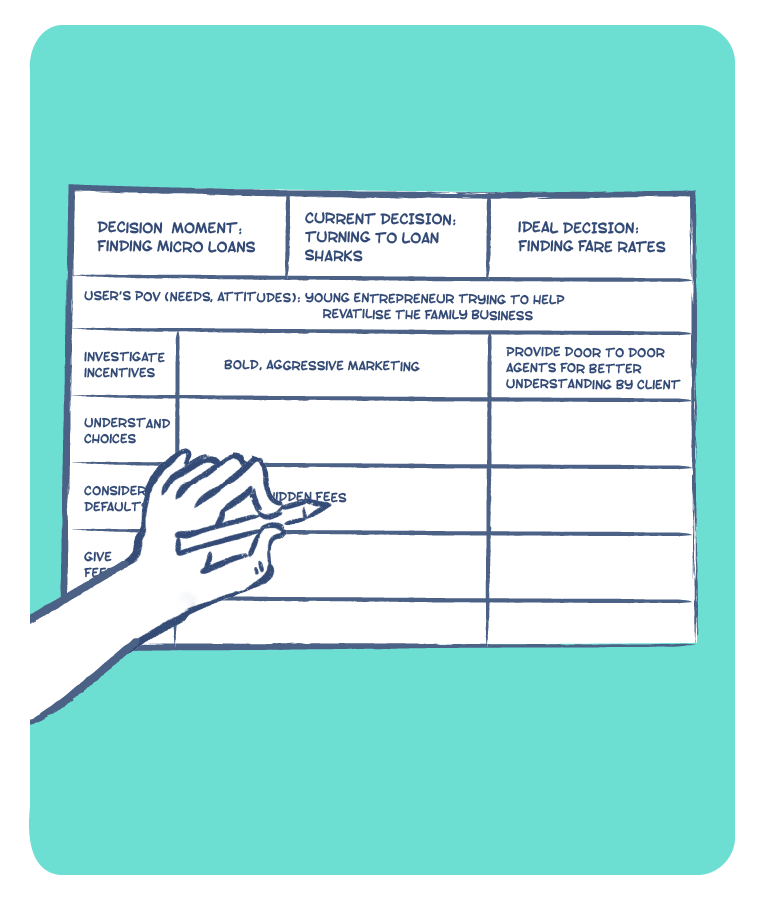
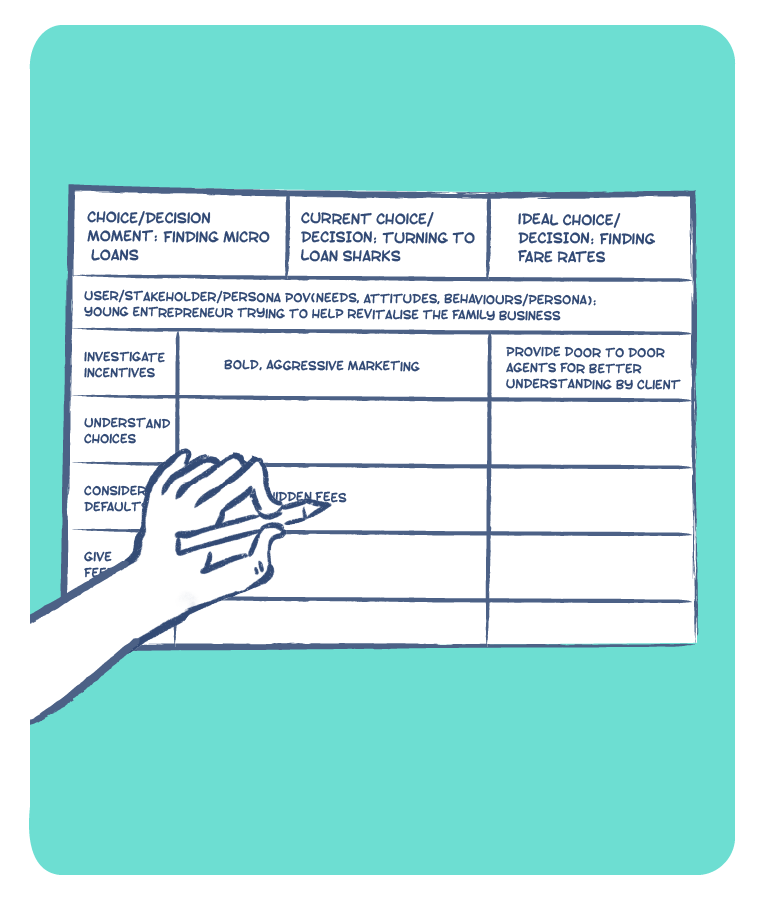
small changes

Changed region(s): [[0.1211, 0.2178, 0.8776, 0.3733]]

diff --git a/tool-pages/Value Proposition Canvas.html b/tool-pages/Value Proposition Canvas.html
@@ -77,9 +77,9 @@
 					<h2>UNDERSTANDING THE TOOL</h2>
 					
 					<ul>
-<li>Customer Profile Map: This part focuses on the customers</span>’ key characteristics and needs. A customer profile should be created for each customer segment/persona, as they may have distinct gains, pains and jobs and value propositions can be different for each. There are three sections within the customer profile map; 1) Customer jobs are the functional, social and emotional tasks (for example, for a small retailer these could be — accessing funds for investment, growing the business by increasing revenue and volume, expanding product portfolio etc.) that customers are trying to (or could) accomplish through the use of a product or service. 2) Gains are the benefits (for example, easy access to funds, low rates, low collateral etc.) that customers expect while going about the jobs. 3) Pains are the negative experiences, emotions and risks (for example, tedious documentation, multiple follow ups, bribes, etc.) that customers want to avoid while getting the jobs done.</li>
-<li>Value Map: This part focuses on how one can design products and services to meet customer needs. Each part of this map relates back to the Customer Profile Map. There are three sections within the Value Map - 1) Products & Services - the solutions, in terms of features and systems (for example, business loans for retailers) that help customers complete the customer jobs. 2) Pain Relievers - things that can be included in the product or service to aid customers and reduce their pains (for example, pre approved amounts, minimal documentation, on site verification). 3) Gain Creators - things in the product or service that can help maximise customer outcomes and benefits (for example, business advice for retailers, custom payment terms, repayment bonuses).</li>
-<li>Value Proposition: To be used to summarise the emerging value proposition (for example, easy to access and rewarding financial services for small retailers).</li>
+<li>‘<span>Customer Profile Map</span>’: This part focuses on the customers</span>’ key characteristics and needs. A customer profile should be created for each customer segment/persona, as they may have distinct gains, pains and jobs and value propositions can be different for each. There are three sections within the customer profile map; 1) Customer jobs are the functional, social and emotional tasks (for example, for a small retailer these could be — accessing funds for investment, growing the business by increasing revenue and volume, expanding product portfolio etc.) that customers are trying to (or could) accomplish through the use of a product or service. 2) Gains are the benefits (for example, easy access to funds, low rates, low collateral etc.) that customers expect while going about the jobs. 3) Pains are the negative experiences, emotions and risks (for example, tedious documentation, multiple follow ups, bribes, etc.) that customers want to avoid while getting the jobs done.</li>
+<li>‘<span>Value Map</span>’: This part focuses on how one can design products and services to meet customer needs. Each part of this map relates back to the Customer Profile Map. There are three sections within the Value Map - 1) Products & Services - the solutions, in terms of features and systems (for example, business loans for retailers) that help customers complete the customer jobs. 2) Pain Relievers - things that can be included in the product or service to aid customers and reduce their pains (for example, pre approved amounts, minimal documentation, on site verification). 3) Gain Creators - things in the product or service that can help maximise customer outcomes and benefits (for example, business advice for retailers, custom payment terms, repayment bonuses).</li>
+<li>‘<span>Value Proposition</span>’: To be used to summarise the emerging value proposition (for example, easy to access and rewarding financial services for small retailers).</li>
 </ul>
 				</div>
 				

diff --git a/tool-pages/Mobile Interface Design Best Practices.html b/tool-pages/Mobile Interface Design Best Practices.html
@@ -18,7 +18,7 @@
 		<div class="header-container">
 			<h1><a href="../index.html">The FinLab Toolkit</a></h1>
 			
-						<div class="header-links">
+			<div class="header-links">
 				<div class="header-link"><a href="../index.html">
 					<button class="header-button">Back</button>
 				</a></div>
@@ -37,7 +37,6 @@
 					</div>
 					
 					<div class="tool-about">
-						
 						<p>The Mobile Interface Design Best Practices are a set of guidelines that inform teams on how they must approach the design of app based products and prototypes.</p>
 					</div>
 					
@@ -45,9 +44,9 @@
 						<h2>USE CASES</h2>
 						
 						<ul>
-<li>Design screen based prototypes.</li>
-<li>Create mobile based products that are easy to use.</li>
-</ul>
+							<li>Design screen based prototypes.</li>
+							<li>Create mobile based products that are easy to use.</li>
+						</ul>
 					</div>
 					
 					<div class="tool-limitations">
@@ -55,24 +54,22 @@
 						
 						<p>The guidelines are merely a starting list of principles that cover the basics of mobile interface design, they are not exhaustive.</p>
 					</div>
-                     <a class="linkin "href=" https://www.cgap.org/sites/default/files/publications/slidedeck/principlesofsmartphonedesign05oct16-161005230428.pdf " target="_blank" style="margin-left: 0;">Principles for UI/UX Design | CGAP</a>
-                   
-				</div>
+                    <a class="linkin "href=" https://www.cgap.org/sites/default/files/publications/slidedeck/principlesofsmartphonedesign05oct16-161005230428.pdf " target="_blank" style="margin-left: 0;">Principles for UI/UX Design | CGAP</a></div>
 				
 				<div class="pres-down-grid">
-					<div class="tool-card-image">
-					</div>
+					<div class="tool-card-image"></div>
 					
 					<div class="download-buttons">
 						<div class="download-link"><a href="../files/tools/decks/Mobile Interface Design Best Practices_FacilitationDeck.pptx" download=" Mobile Interface Design Best Practices_FacilitationDeck.pptx">
-												<button class="download-button">Download Mobile Interface Design Best Practices!</button>
-											</a></div>
-										</div>
+							<button class="download-button">Download Mobile Interface Design Best Practices!</button>
+						</a></div>
 					</div>
 				</div>
 			</div>
 		</div>
-        <div class="footer-section">
+	</div>
+	
+	<div class="footer-section">
 		<div class="header-container">
 			<p>&copy; Copyright 2019, UNCDF. All rights reserved.</p>
 		</div>

diff --git a/tool-pages/NUDGE.html b/tool-pages/NUDGE.html
@@ -11,7 +11,7 @@
 	
 	<meta name="viewport" content="width=device-width, initial-scale=1.0">
 	
-	<link rel="stylesheet" href="../files/css/toolpurple.css">
+	<link rel="stylesheet" href="../files/css/toolgreen.css">
 </head>
 <body>
 	<div class="header-section">
@@ -80,7 +80,7 @@
 					
 					<ul>
 <li>The ‘<span>Choice/Decision Moment</span>’ section is meant to note down the decision that is being designed for. What is happening currently?, can be noted in the ‘<span>Current Choice/Decision</span>’ box, and the intended action in the ‘<span>Desired Choice/Decision</span>’ box.</li>
-<li>The ‘<span>User/Stakeholder Persona/Profile</span>’ box is for making a note of the key attributes; needs, attitudes, behaviours, etc. that describe the person who is making the choice.</li>
+<li>The ‘<span>User/Stakeholder/Persona</span>’ box is for making a note of the key attributes; needs, attitudes, behaviours, etc. that describe the person who is making the choice.</li>
 <li>‘<span>Investigate Incentives</span>’ is the section where designers can list potential incentives for users that can work as the nudge. Incentives can be monetary, social recognition, personal growth, etc. Designers are to decide how these incentives are offered and communicated.</li>
 <li>‘<span>Understand Choices</span>’ is a nudge approach where designers are able to communicate the costs vs. benefits of the different choices to the user, and therefore influence choice. For this to happen, the costs and benefits of different decisions need to be mapped first, and then prioritised based on what is most important for users.</li>
 <li>‘<span>Consider Defaults</span>’ is a nudge approach where designers set defaults on the product or service that are closest to a desired choice. An evaluation of moments where defaults are required, and how they will be set needs to be done.</li>

diff --git a/tool-pages/Insights & Opportunities.html b/tool-pages/Insights & Opportunities.html
@@ -78,8 +78,8 @@
 					
 					<ul>
 <li>‘<span>Key Takeaways</span>’ are the most important themes, learnings, and findings from the Affinity Mapping exercise.</li>
-<li>'Insights' are new and fundamental things one has understood about a problem or opportunity, and potential solutions. These could be things about users, context, system, service, etc.</li>
-<li>'Opportunities' are potential ways to approach solutions. They can be framed as “How Might We?” statements.</li>
+<li>‘<span>Insights</span>’ are new and fundamental things one has understood about a problem or opportunity, and potential solutions. These could be things about users, context, system, service, etc.</li>
+<li>‘<span>Opportunities</span>’ are potential ways to approach solutions. They can be framed as “How Might We?” statements.</li>
 </ul>
 				</div>
 				

diff --git a/tool-pages/Design & Ethics.html b/tool-pages/Design & Ethics.html
@@ -11,7 +11,7 @@
 	
 	<meta name="viewport" content="width=device-width, initial-scale=1.0">
 	
-	<link rel="stylesheet" href="../files/css/toolpurple.css">
+	<link rel="stylesheet" href="../files/css/toolgreen.css">
 </head>
 <body>
 	<div class="header-section">

diff --git a/tool-pages/Design with Intent.html b/tool-pages/Design with Intent.html
@@ -11,7 +11,7 @@
 	
 	<meta name="viewport" content="width=device-width, initial-scale=1.0">
 	
-	<link rel="stylesheet" href="../files/css/toolpurple.css">
+	<link rel="stylesheet" href="../files/css/toolgreen.css">
 </head>
 <body>
 	<div class="header-section">

diff --git a/tool-pages/Gamification Board.html b/tool-pages/Gamification Board.html
@@ -11,7 +11,7 @@
 	
 	<meta name="viewport" content="width=device-width, initial-scale=1.0">
 	
-	<link rel="stylesheet" href="../files/css/toolpurple.css">
+	<link rel="stylesheet" href="../files/css/toolgreen.css">
 </head>
 <body>
 	<div class="header-section">

diff --git a/tool-pages/Hook Model.html b/tool-pages/Hook Model.html
@@ -11,7 +11,7 @@
 	
 	<meta name="viewport" content="width=device-width, initial-scale=1.0">
 	
-	<link rel="stylesheet" href="../files/css/toolpurple.css">
+	<link rel="stylesheet" href="../files/css/toolgreen.css">
 </head>
 <body>
 	<div class="header-section">

diff --git a/tool-pages/SWITCH Framework.html b/tool-pages/SWITCH Framework.html
@@ -11,7 +11,7 @@
 	
 	<meta name="viewport" content="width=device-width, initial-scale=1.0">
 	
-	<link rel="stylesheet" href="../files/css/toolpurple.css">
+	<link rel="stylesheet" href="../files/css/toolgreen.css">
 </head>
 <body>
 	<div class="header-section">

diff --git a/files/css/toolpurple.css b/files/css/toolpurple.css
@@ -1,5 +1,7 @@
 @import url('https://fonts.googleapis.com/css?family=IBM+Plex+Sans:300,500,700&display=swap');
-
+html {
+	height: 100%;
+}
 :root {
 	--ntext: 15px/20px IBM Plex Sans;
 	--lgrey: rgb(243, 243, 243);

diff --git a/python/auto-method.py b/python/auto-method.py
@@ -104,7 +104,7 @@ for index in range(2, len(test)):
             css = "toolblue"
         elif phase_t == "HUMAN CENTERED DESIGN":
             css = "toolpurple"
-        elif phase_t == "BEHAVIOURS & DESIGN":
+        elif phase_t == "BEHAVIOUR DESIGN":
             css = "toolgreen"
         elif phase_t == "NETWORK BUILDING":
             css = "toolred"

diff --git a/python/csv-method.py b/python/csv-method.py
@@ -149,7 +149,7 @@ for index in range(2, len(name)):
             css = "toolblue"
         elif phase_t == "HUMAN CENTERED DESIGN":
             css = "toolpurple"
-        elif phase_t == "BEHAVIOURS & DESIGN":
+        elif phase_t == "BEHAVIOUR DESIGN":
             css = "toolgreen"
         elif phase_t == "NETWORK BUILDING":
             css = "toolred"
